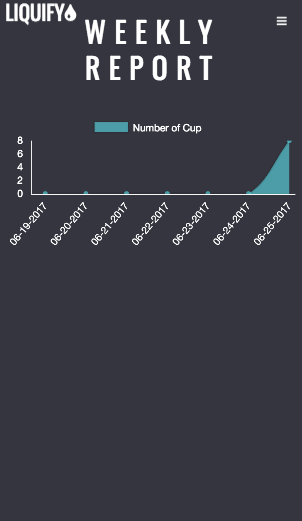
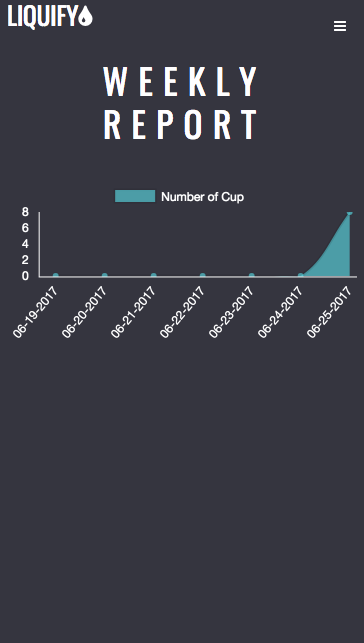
readme images

diff --git a/public/main.css b/public/main.css
@@ -7,7 +7,7 @@ body {
 }
 
 #top-margin{
-  margin-top: 5em;
+  margin-top: 3em;
 }
 
 #margin2{
